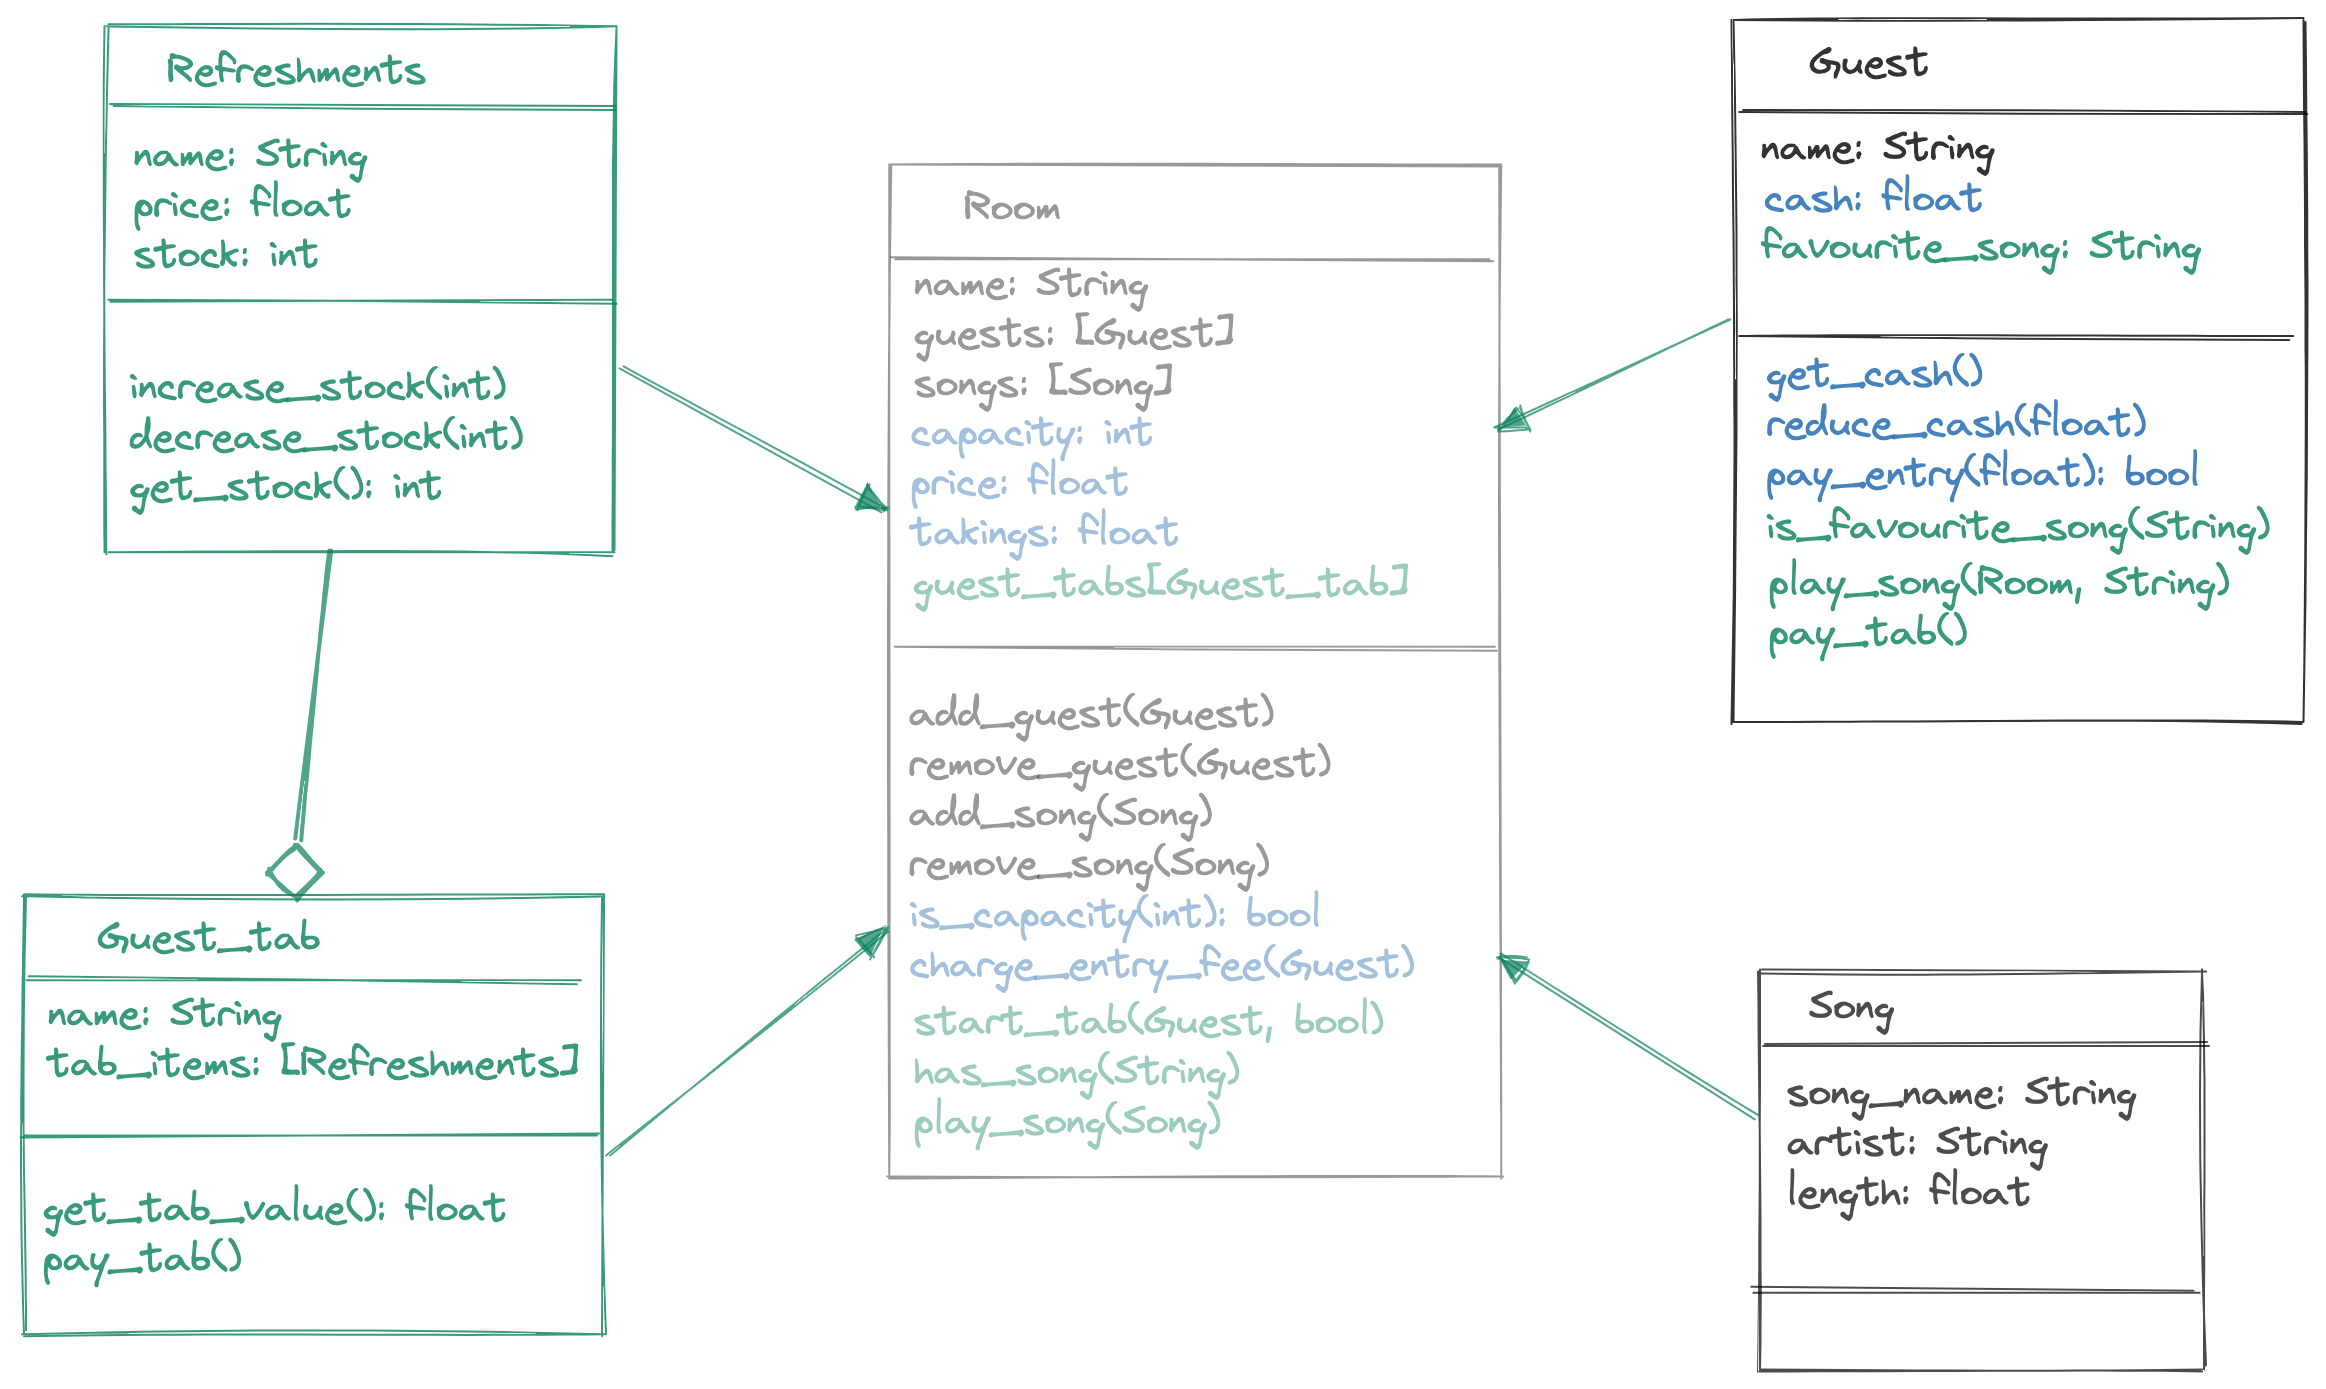
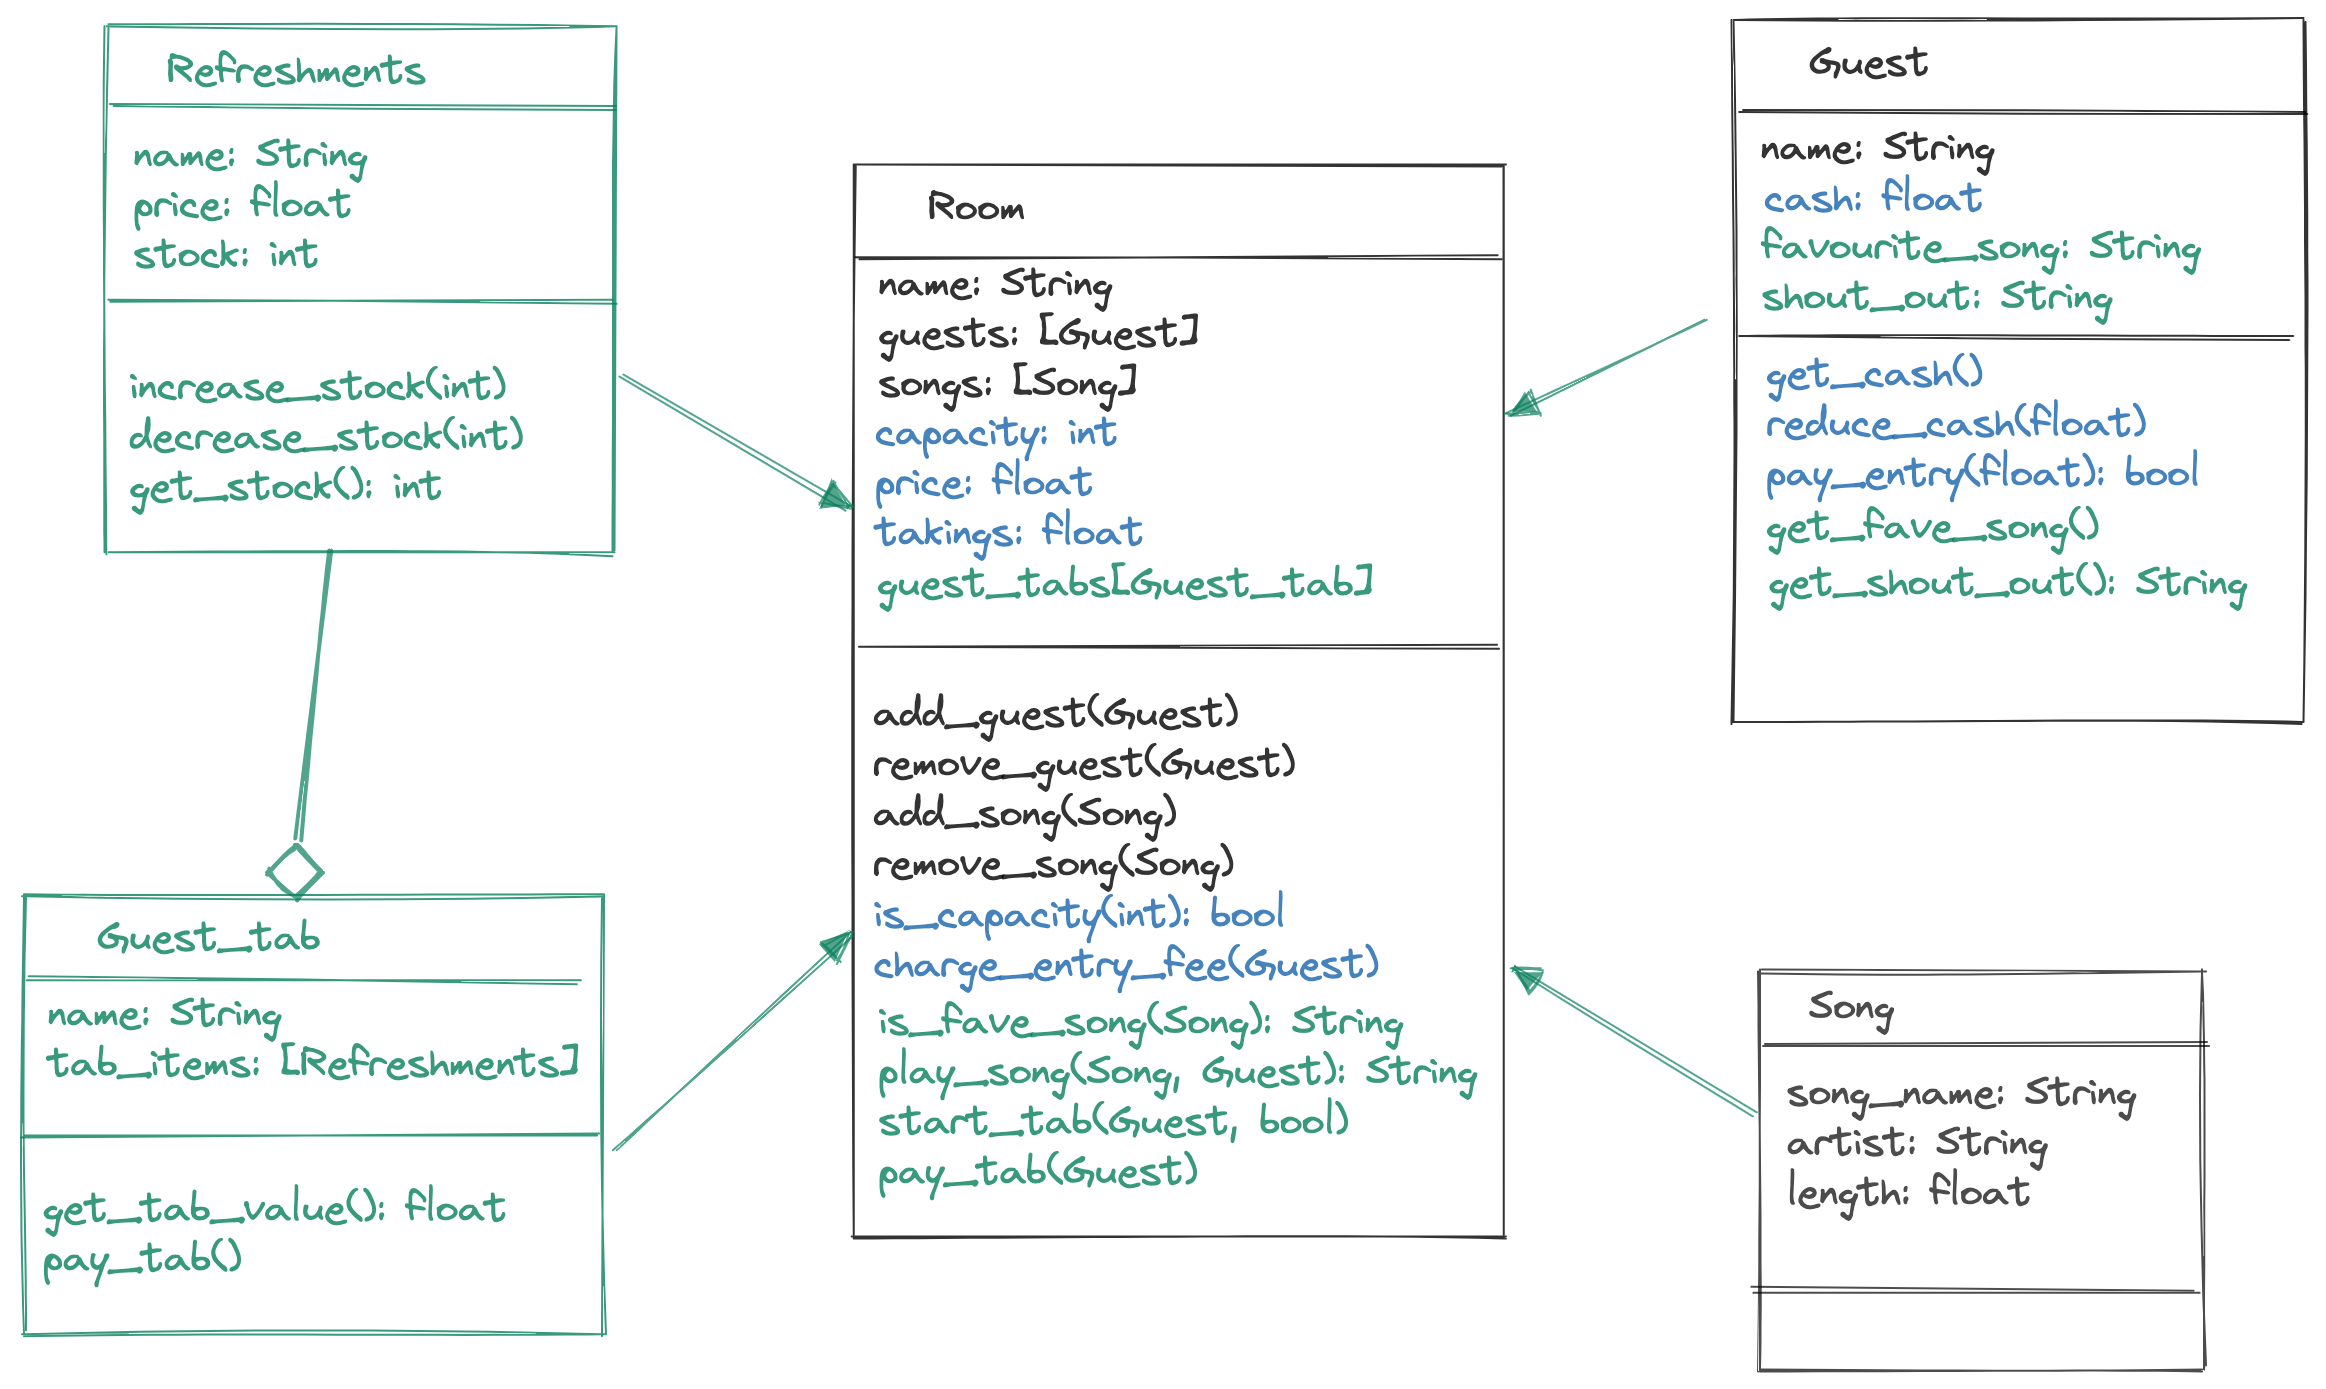
Completed favouite song functionality and tests

diff --git a/codeclan_caraoke/tests/room_test.py b/codeclan_caraoke/tests/room_test.py
@@ -11,10 +11,10 @@ class TestRoom(unittest.TestCase):
         self.song3 = Song("Just Dropped In", "Kenny Rogers", 3.20)
         self.playlist = [self.song1, self.song2, self.song3]
         self.guest1 = Guest("Peter Kay", 50, "")
-        self.guest2 = Guest("Tom Jones", 60, "")
+        self.guest2 = Guest("Tom Jones", 60, "Just Dropped In")
         self.guest3 = Guest("Helena Bonham-Carter", 1000, "9 to 5")
         self.guest4 = Guest("Sean Locke", 100, "Me & Bobby McGee")
-        self.guest5 = Guest("John Bonham", 200, "")
+        self.guest5 = Guest("John Bonham", 200, "Just Dropped In")
         self.guest6 = Guest("Frank Zappa", 40, "Just Dropped In")
         self.group = [self.guest1, self.guest2, self.guest3]
         self.big_group = self.group + [self.guest4, self.guest5]
@@ -172,9 +172,20 @@ class TestRoom(unittest.TestCase):
         self.assertEqual(expected2, result2)
         self.assertEqual(expected3, result3)
 
+    def test_can_check_for_fave_song_True(self):
+        result = self.room.is_fave_song(self.song3, self.guest6)
+        expected = True
+        self.assertEqual(expected ,result)
+
+    def test_can_check_for_fave_song_False(self):
+        result = self.room.is_fave_song(self.song3, self.guest1)
+        expected = False
+        self.assertEqual(expected ,result)
+
     def test_room_can_play_song(self):
-        result = self.room.play_song(self.song3, self.guest6)
-        expected = "Now playing: Just Dropped In by Kenny Rogers for Frank"
+        self.room.add_group(self.big_group)
+        result = self.room.play_song(self.song3, self.guest5)
+        expected = "Now playing: Just Dropped In by Kenny Rogers for John"
         self.assertEqual(expected ,result)
 
 

diff --git a/codeclan_caraoke/src/room.py b/codeclan_caraoke/src/room.py
@@ -68,7 +68,17 @@ class Room:
                 self.increase_takings(self.get_price())
                 self.add_guest(guest)
 
-    def play_song(self,song, guest):
-        print(f"Now playing: {song.song_name} by {song.artist} for {guest.name.split()[0]}")
+    def play_song(self, song, selector):
+        # Displays song details currently playing
+        print(f"\nNow playing: {song.song_name} by {song.artist} for {selector.name.split()[0]}")
         
-        return f"Now playing: {song.song_name} by {song.artist} for {guest.name.split()[0]}"
+        # Check all guests to see if their favourite song is playing and IF it is
+        # displays their shout out.
+        for guest in self.guests:
+            if self.is_fave_song(song, guest):
+                print(f"{guest.name.split()[0]} shouts out: {guest.get_shout_out()}")
+
+        return f"Now playing: {song.song_name} by {song.artist} for {selector.name.split()[0]}"
+
+    def is_fave_song(self, song, guest):
+        return song.song_name == guest.get_fave_song()
